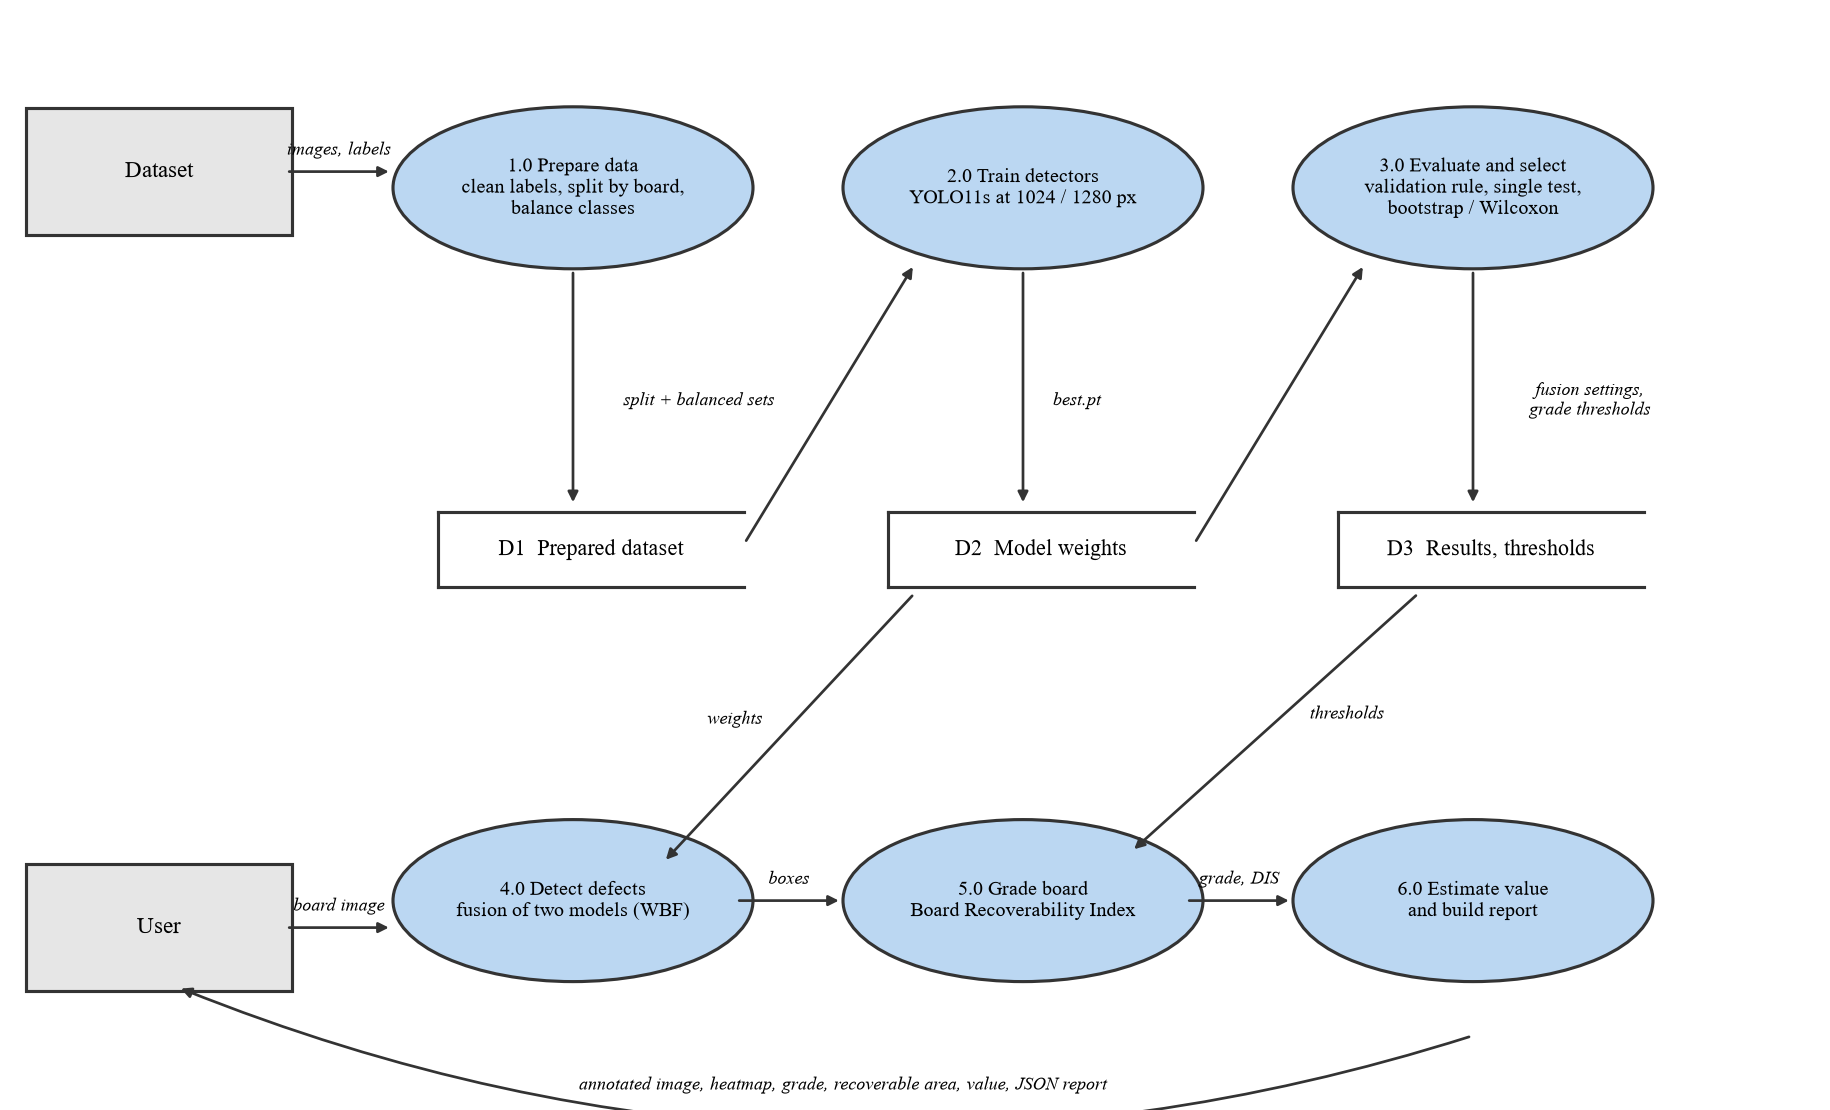
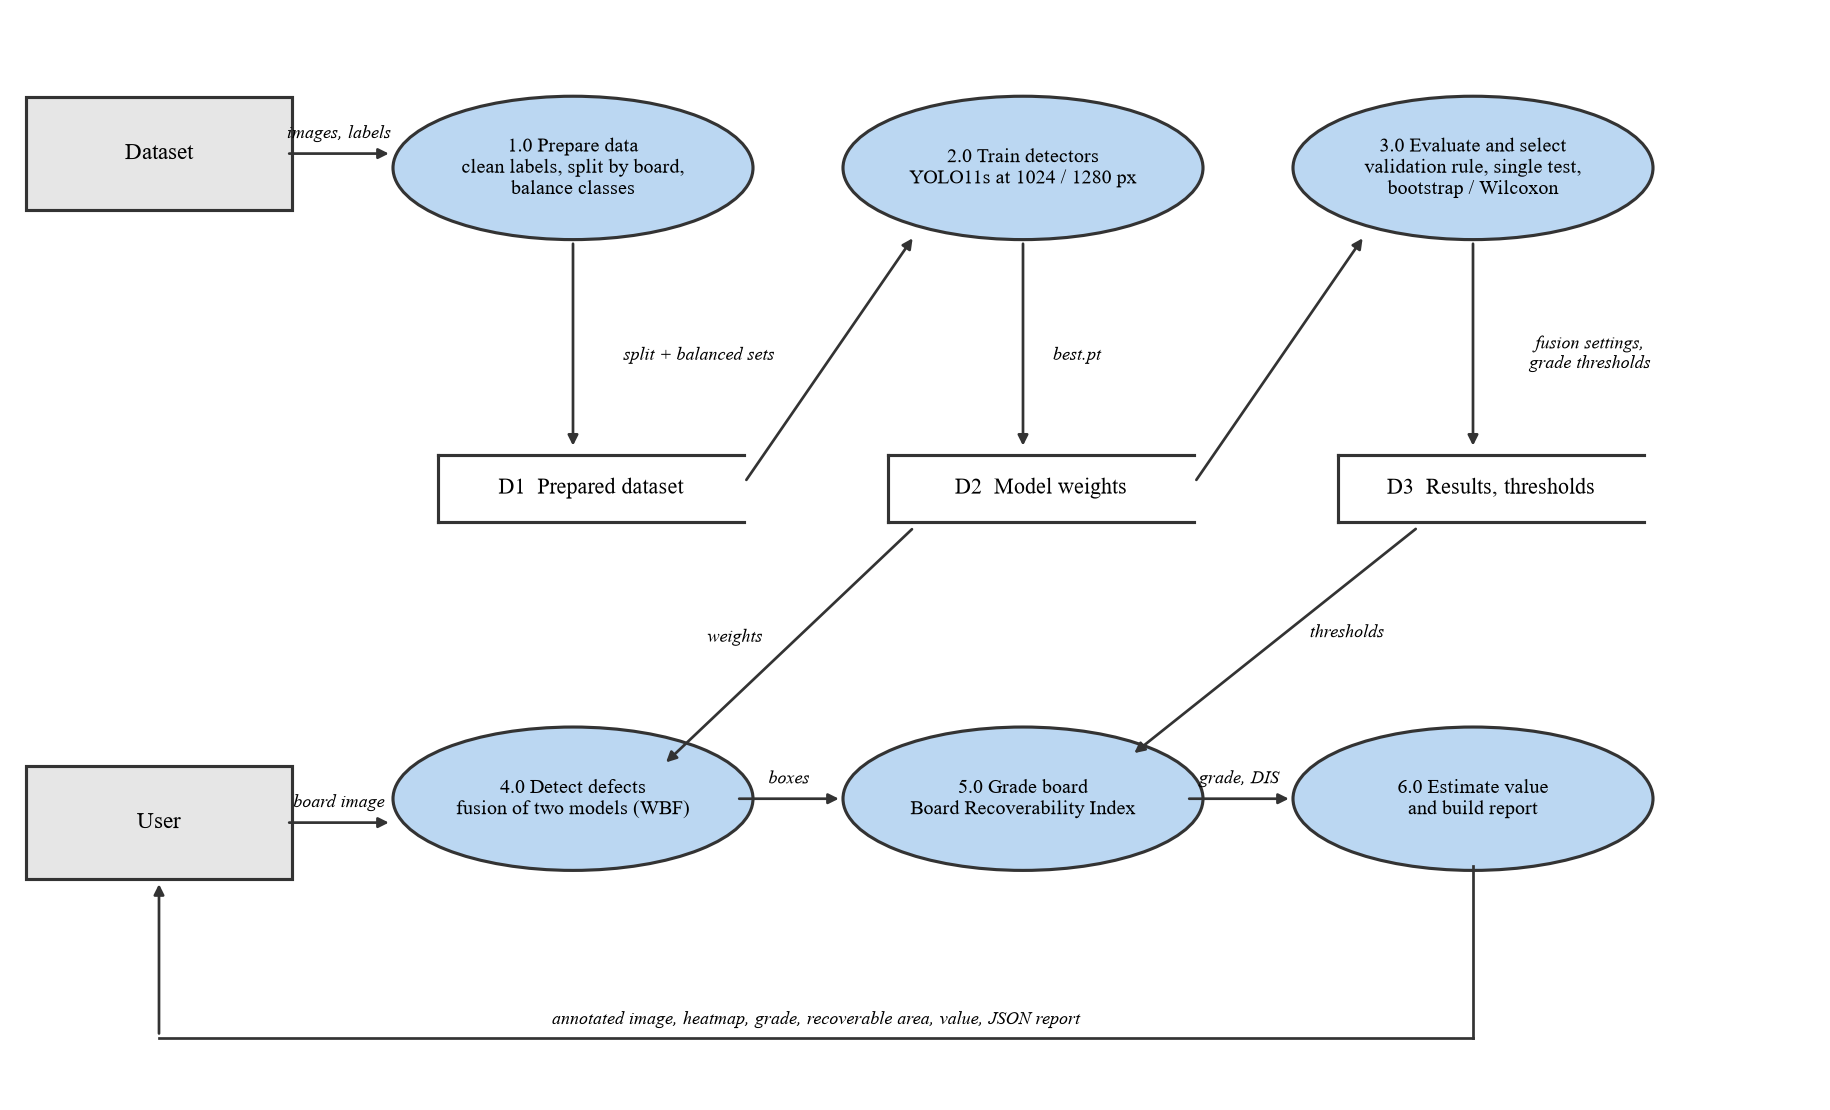
DFD level 1: return flow kept inside the figure

diff --git a/docs/make_report_figs.py b/docs/make_report_figs.py
@@ -77,8 +77,11 @@ def dfd1():
     arrow(ax, 0.40, 0.18, 0.46, 0.18, "boxes", fs=8.5)
     arrow(ax, 0.65, 0.18, 0.71, 0.18, "grade, DIS", fs=8.5)
     arrow(ax, 0.78, 0.465, 0.62, 0.225, "thresholds", off=(0.04, 0), fs=8.5)
-    ax.annotate("", xy=(0.09, 0.10), xytext=(0.81, 0.055), arrowprops=dict(arrowstyle="-|>", color="#333", lw=1.3, connectionstyle="arc3,rad=-0.18"))
-    ax.text(0.46, 0.005, "annotated image, heatmap, grade, recoverable area, value, JSON report", ha="center", fontsize=8.5, style="italic")
+    ax.set_ylim(-0.13, 1.0)
+    ax.plot([0.81, 0.81], [0.11, -0.07], color="#333", lw=1.3); ax.plot([0.08, 0.81], [-0.07, -0.07], color="#333", lw=1.3)
+    ax.annotate("", xy=(0.08, 0.095), xytext=(0.08, -0.07), arrowprops=dict(arrowstyle="-|>", color="#333", lw=1.3))
+    ax.text(0.445, -0.06, "annotated image, heatmap, grade, recoverable area, value, JSON report", ha="center", va="bottom",
+            fontsize=8.5, style="italic")
     fig.savefig(OUT / "dfd_level1.png", bbox_inches="tight", pad_inches=0.1); plt.close(fig)
 
 
